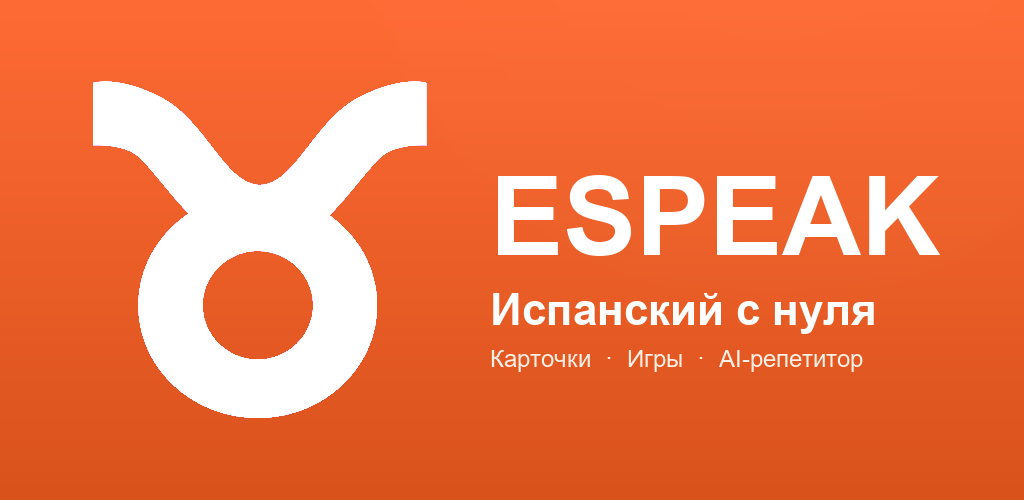
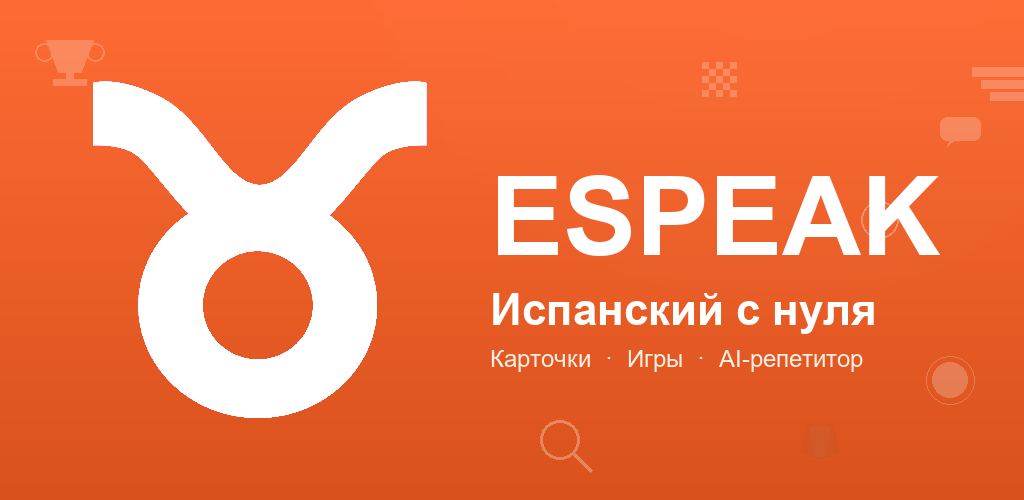
play(assets): feature graphic v2 — scattered feature pattern watermarks
Augmented the orange Play Store banner with 8 faint white iconographic
hints of what's inside the app:

- Trophy (top-left)        — leagues / Path to Madrid
- Crossword grid (top-mid) — Crucigrama / games
- Chat bubble (top-right)  — AI tutor
- Book stack (top-right)   — lessons
- Stopwatch (right)        — Speed game
- Magnifying glass (mid)   — Dictionary
- Bullseye (bottom-right)  — Daily Goal
- Card fan (bottom-right)  — Flashcards

Each is the same motif used in the actual bento / continue tiles inside
the app, drawn at alpha ~55-75/255 white so they read as decorative
texture without competing with the bull silhouette or the ESPEAK
wordmark. Generator script kept in docs/play_assets/_make_feature_v2.py
for future re-renders.

diff --git a/docs/play_assets/_make_feature_v2.py b/docs/play_assets/_make_feature_v2.py
@@ -1,0 +1,161 @@
+"""1024x500 Play Store feature graphic v2 with feature pattern watermarks."""
+from svglib.svglib import svg2rlg
+from reportlab.graphics import renderPM
+from PIL import Image, ImageDraw, ImageFont
+import io, os
+
+W, H = 1024, 500
+
+BULL_SVG = '<?xml version="1.0" encoding="UTF-8"?>\n<svg xmlns="http://www.w3.org/2000/svg" width="380" height="380" viewBox="0 0 512 512"><rect width="512" height="512" fill="#FF00FF"/><path fill="#FFFFFF" d="M30.882,30.14s33.525,-10.81 92.088,19.64c60.996,31.72 85.628,116.77 132.906,117.86c47.283,-1.09 71.92,-86.14 132.912,-117.858c58.558,-30.45 92.088,-19.643 92.088,-19.643v85.483s-38.062,-2.453 -58.934,13.507c-15.165,11.593 -45.23,54.296 -71.375,80.08c38.867,27.833 63.966,71.877 63.966,121.45c0,84.162 -72.343,152.39 -161.587,152.39S91.353,414.821 91.353,330.659c0,-51.03 26.6,-96.205 67.432,-123.865c-25.558,-25.957 -54.263,-66.43 -68.965,-77.67c-20.877,-15.96 -58.938,-13.506 -58.938,-13.506zM179.45,330.49c0,40.01 32.98,72.44 73.664,72.44s73.67,-32.435 73.67,-72.44s-32.98,-72.44 -73.67,-72.44c-40.688,0 -73.664,32.436 -73.664,72.44"/></svg>'
+
+drawing = svg2rlg(io.BytesIO(BULL_SVG.encode('utf-8')))
+bull_marker_path = 'docs/play_assets/_bull_marker_tmp.png'
+renderPM.drawToFile(drawing, bull_marker_path, fmt='PNG', dpi=72)
+bull = Image.open(bull_marker_path).convert('RGBA')
+data = list(bull.getdata())
+new_data = []
+for r, g, b, a in data:
+    if r > b * 0.9 and g < 200 and abs(r - b) < 80 and r > 150 and b > 150 and g < r * 0.7:
+        new_data.append((0, 0, 0, 0))
+    else:
+        new_data.append((r, g, b, a))
+bull.putdata(new_data)
+
+# Background gradient
+img = Image.new('RGB', (W, H), (255, 107, 53))
+draw = ImageDraw.Draw(img)
+top, bottom = (255, 107, 53), (217, 82, 28)
+for y in range(H):
+    t = y / (H - 1)
+    r = int(top[0] + (bottom[0] - top[0]) * t)
+    g = int(top[1] + (bottom[1] - top[1]) * t)
+    b = int(top[2] + (bottom[2] - top[2]) * t)
+    draw.line([(0, y), (W, y)], fill=(r, g, b))
+
+# Feature pattern overlay
+pat_layer = Image.new('RGBA', (W, H), (0, 0, 0, 0))
+pdraw = ImageDraw.Draw(pat_layer)
+A = (255, 255, 255, 55)
+A2 = (255, 255, 255, 75)
+
+def draw_trophy(cx, cy, scale=1.0):
+    s = scale
+    pdraw.polygon([(cx - 26 * s, cy - 22 * s), (cx + 26 * s, cy - 22 * s),
+                   (cx + 13 * s, cy + 14 * s), (cx - 13 * s, cy + 14 * s)], fill=A)
+    pdraw.ellipse([cx - 38 * s, cy - 18 * s, cx - 18 * s, cy + 2 * s], outline=A, width=int(3 * s))
+    pdraw.ellipse([cx + 18 * s, cy - 18 * s, cx + 38 * s, cy + 2 * s], outline=A, width=int(3 * s))
+    pdraw.rectangle([cx - 4 * s, cy + 14 * s, cx + 4 * s, cy + 22 * s], fill=A)
+    pdraw.rectangle([cx - 18 * s, cy + 22 * s, cx + 18 * s, cy + 28 * s], fill=A)
+
+def draw_book_stack(cx, cy, scale=1.0):
+    s = scale
+    for i in range(3):
+        w = (50 - i * 8) * s
+        h = 8 * s
+        x = cx - w / 2 + i * 4 * s
+        y = cy + (i - 1) * 11 * s
+        pdraw.rectangle([x, y, x + w, y + h], fill=A)
+
+def draw_lens(cx, cy, scale=1.0):
+    s = scale
+    r = 22 * s
+    pdraw.ellipse([cx - r, cy - r, cx + r, cy + r], outline=A2, width=int(4 * s))
+    pdraw.line([cx + r * 0.7, cy + r * 0.7, cx + r * 1.6, cy + r * 1.6], fill=A2, width=int(5 * s))
+
+def draw_target(cx, cy, scale=1.0):
+    s = scale
+    rs = [30, 22, 14, 6]
+    for i, rr in enumerate(rs):
+        rr = rr * s
+        if i % 2 == 0:
+            pdraw.ellipse([cx - rr, cy - rr, cx + rr, cy + rr], outline=A, width=int(2 * s))
+        else:
+            pdraw.ellipse([cx - rr, cy - rr, cx + rr, cy + rr], fill=A)
+
+def draw_crossword(cx, cy, scale=1.0):
+    s = scale
+    cell = 7 * s
+    for i in range(5):
+        for j in range(5):
+            if (i + j) % 2 == 0:
+                x = cx - 2.5 * cell + i * cell
+                y = cy - 2.5 * cell + j * cell
+                pdraw.rectangle([x, y, x + cell - 1, y + cell - 1], fill=A)
+
+def draw_stopwatch(cx, cy, scale=1.0):
+    s = scale
+    r = 22 * s
+    pdraw.ellipse([cx - r, cy - r, cx + r, cy + r], outline=A2, width=int(3 * s))
+    pdraw.rectangle([cx - 4 * s, cy - r - 5 * s, cx + 4 * s, cy - r], fill=A)
+    pdraw.line([cx, cy, cx + r * 0.6, cy], fill=A2, width=int(3 * s))
+    pdraw.line([cx, cy, cx, cy - r * 0.7], fill=A2, width=int(3 * s))
+
+def draw_cards(cx, cy, scale=1.0):
+    s = scale
+    for deg, dx in [(-12, -6), (0, 0), (12, 6)]:
+        card = Image.new('RGBA', (int(40 * s), int(50 * s)), (0, 0, 0, 0))
+        cdraw = ImageDraw.Draw(card)
+        cdraw.rounded_rectangle([2, 2, int(40 * s) - 2, int(50 * s) - 2],
+                                radius=int(4 * s), fill=A)
+        rot = card.rotate(deg, resample=Image.BICUBIC, expand=True)
+        pat_layer.paste(rot, (int(cx + dx * s - rot.width // 2),
+                              int(cy - rot.height // 2)), rot)
+
+def draw_chat(cx, cy, scale=1.0):
+    s = scale
+    pdraw.rounded_rectangle([cx - 28 * s, cy - 18 * s, cx + 28 * s, cy + 14 * s],
+                            radius=int(10 * s), fill=A)
+    pdraw.polygon([(cx - 14 * s, cy + 14 * s), (cx - 6 * s, cy + 14 * s),
+                   (cx - 18 * s, cy + 24 * s)], fill=A)
+
+# Scatter — avoid bull (left ~70-450) and primary text (right ~480-1000 mid)
+draw_trophy(70, 60, scale=0.9)
+draw_book_stack(1000, 80, scale=1.1)
+draw_target(950, 380, scale=0.8)
+draw_lens(560, 440, scale=0.9)
+draw_crossword(720, 80, scale=1.0)
+draw_stopwatch(880, 220, scale=0.85)
+draw_cards(820, 440, scale=0.7)
+draw_chat(960, 130, scale=0.7)
+
+img = Image.alpha_composite(img.convert('RGBA'), pat_layer).convert('RGB')
+
+# Top-right glow
+overlay = Image.new('RGBA', (W, H), (0, 0, 0, 0))
+odraw = ImageDraw.Draw(overlay)
+for r in range(420, 100, -10):
+    alpha = int(8 - r * 0.012)
+    if alpha <= 0: continue
+    odraw.ellipse([W - 250 - r, -120 - r, W - 250 + r, -120 + r],
+                  fill=(255, 230, 200, alpha))
+img = Image.alpha_composite(img.convert('RGBA'), overlay).convert('RGB')
+
+# Bull
+bull_x = 70
+bull_y = (H - bull.height) // 2
+img.paste(bull, (bull_x, bull_y), bull)
+
+# Text
+def find_font(candidates):
+    for path in candidates:
+        if os.path.exists(path): return path
+    return None
+
+font_bold = find_font(['C:/Windows/Fonts/arialbd.ttf', 'C:/Windows/Fonts/seguibl.ttf'])
+font_reg  = find_font(['C:/Windows/Fonts/arial.ttf', 'C:/Windows/Fonts/segoeui.ttf'])
+font_brand   = ImageFont.truetype(font_bold, 110)
+font_tagline = ImageFont.truetype(font_bold, 44)
+font_feats   = ImageFont.truetype(font_reg, 24)
+
+draw = ImageDraw.Draw(img)
+text_x = bull_x + bull.width + 40
+y = H // 2 - 95
+draw.text((text_x, y), "ESPEAK", fill=(255, 255, 255), font=font_brand)
+draw.text((text_x, y + 130), "Испанский с нуля", fill=(255, 255, 255), font=font_tagline)
+draw.text((text_x, y + 190), "Карточки  ·  Игры  ·  AI-репетитор",
+          fill=(255, 240, 230), font=font_feats)
+
+out = 'docs/play_assets/feature_1024x500.png'
+img.save(out, 'PNG', optimize=True)
+os.remove(bull_marker_path)
+print('Wrote', out, os.path.getsize(out), 'bytes')
